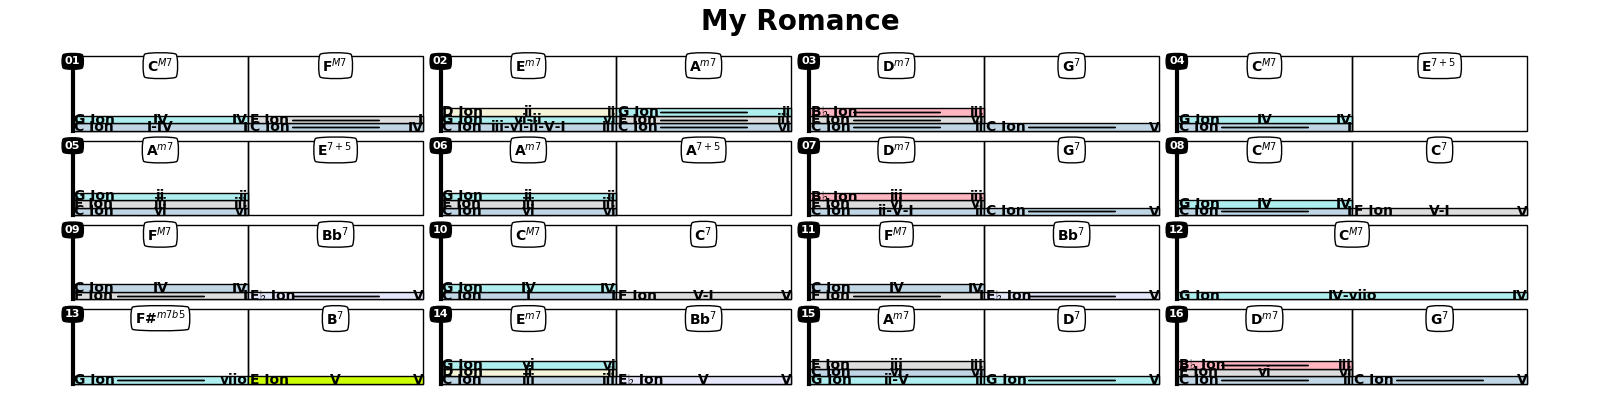
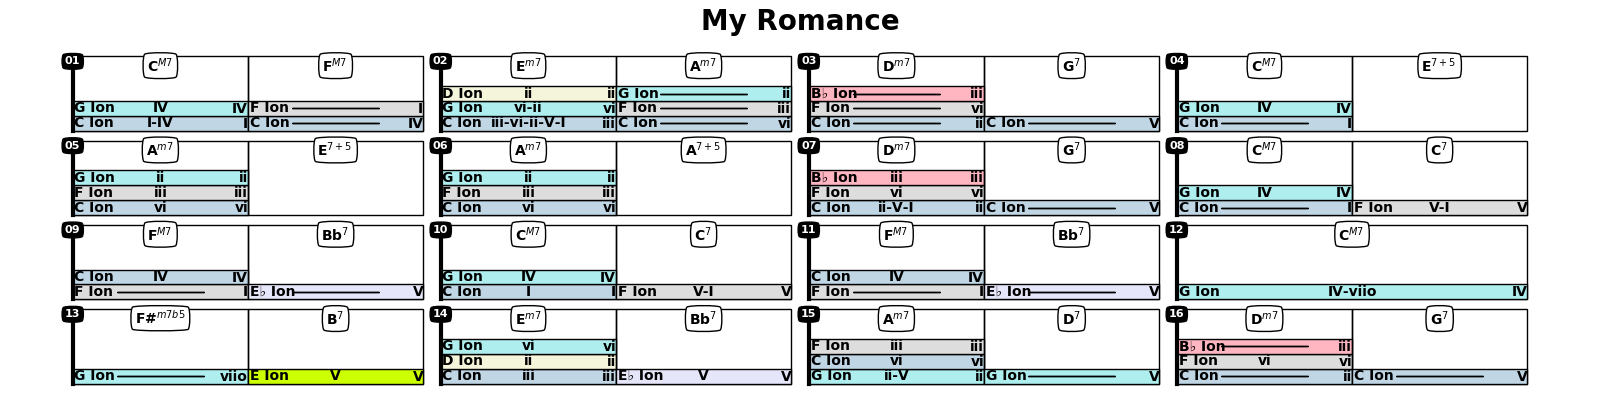
moved tests into jazzElements starting sphynx docs

diff --git a/jazzElements/progression.py b/jazzElements/progression.py
@@ -102,7 +102,7 @@ class Progression:
             text(xChr + wChr / 2, yChr + hChr, '{}{}$^{{{}}}$ '.format(root, alt, chrType.replace('#', '+')),
                  va='top', ha='center', fontSize=10,
                  bbox=dict(boxstyle='round4', fc='w'), weight=1000)
-            cadh = 15
+            cadh = 30
             if 'sca' in ann:
                 for si, s in enumerate(ann['sca']):
                     if len(s):
@@ -346,9 +346,9 @@ class Progression:
 # self.annotate(reduce=False)
 # self.plot()
 
-# prg=Progression('My Romance')
-# prg.annotate(method='graph',model='majKostka',reduce=False)
-# prg.plot()
+prg=Progression('My Romance')
+prg.annotate(method='graph',model='majKostka',reduce=False)
+prg.plot()
 
 
 # todo: Not all chords can be resolved:

diff --git a/jazzElements/docs/mkDocFigs.py b/jazzElements/docs/mkDocFigs.py
@@ -55,3 +55,4 @@ close('all')
 
 CadenceGraph('C').plot(tgt='./img/majKostka', showChords=True)
 CadenceGraph('C','minKostka').plot(tgt='./img/minKostka', showChords=True)
+
